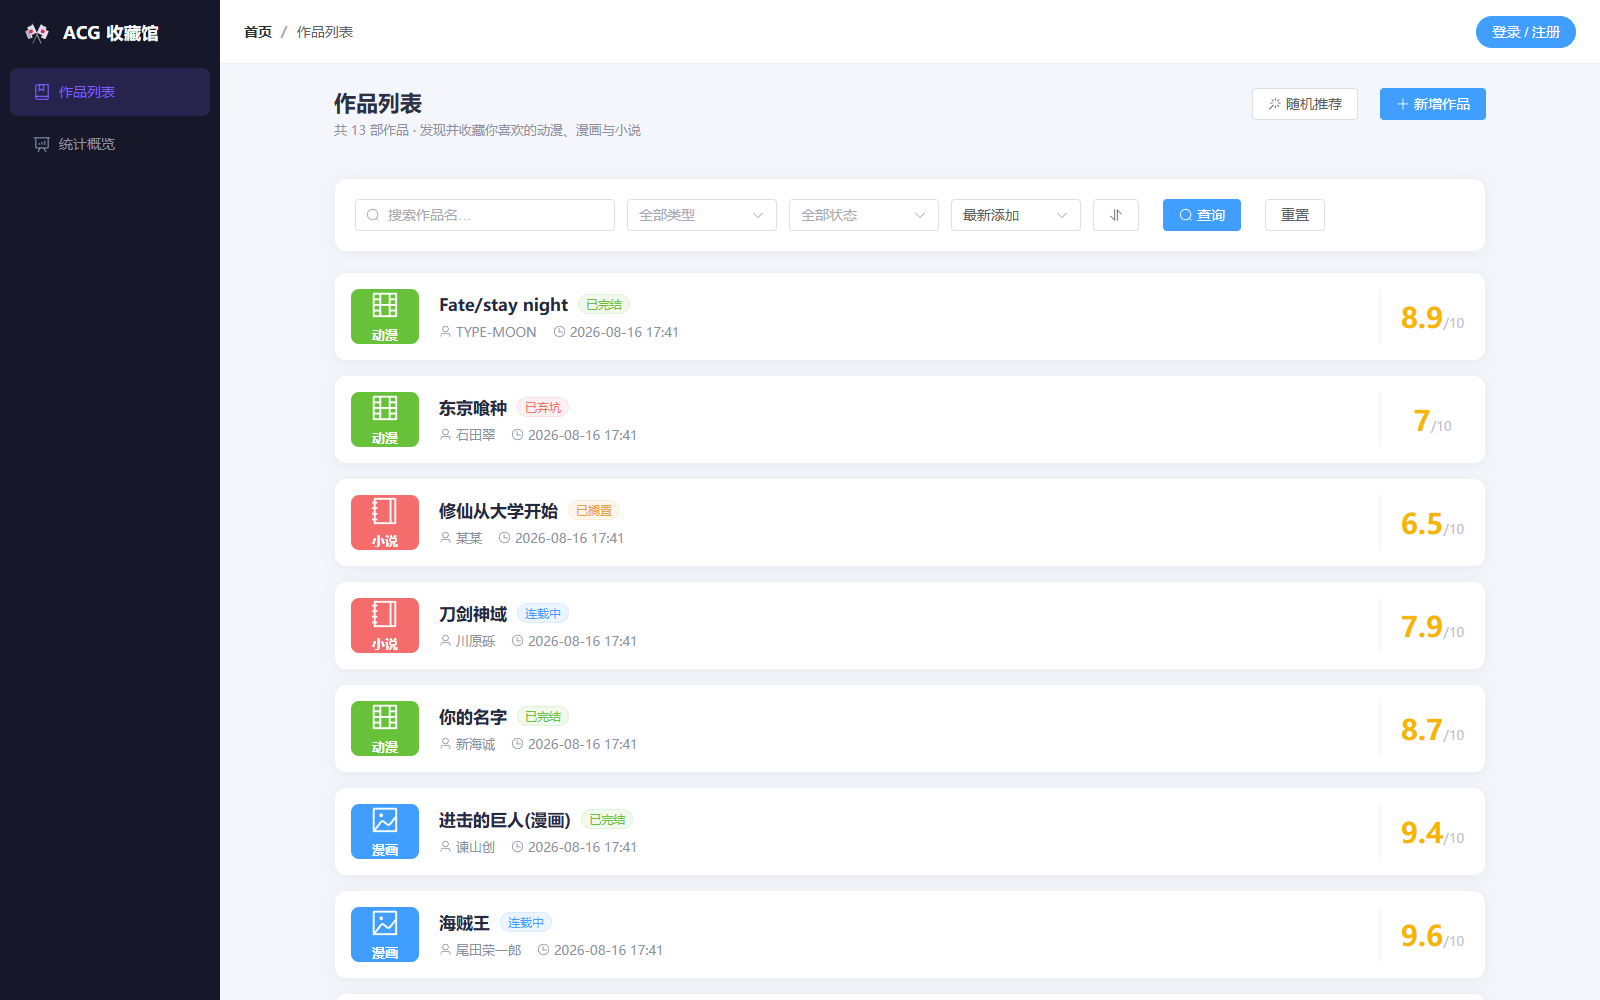
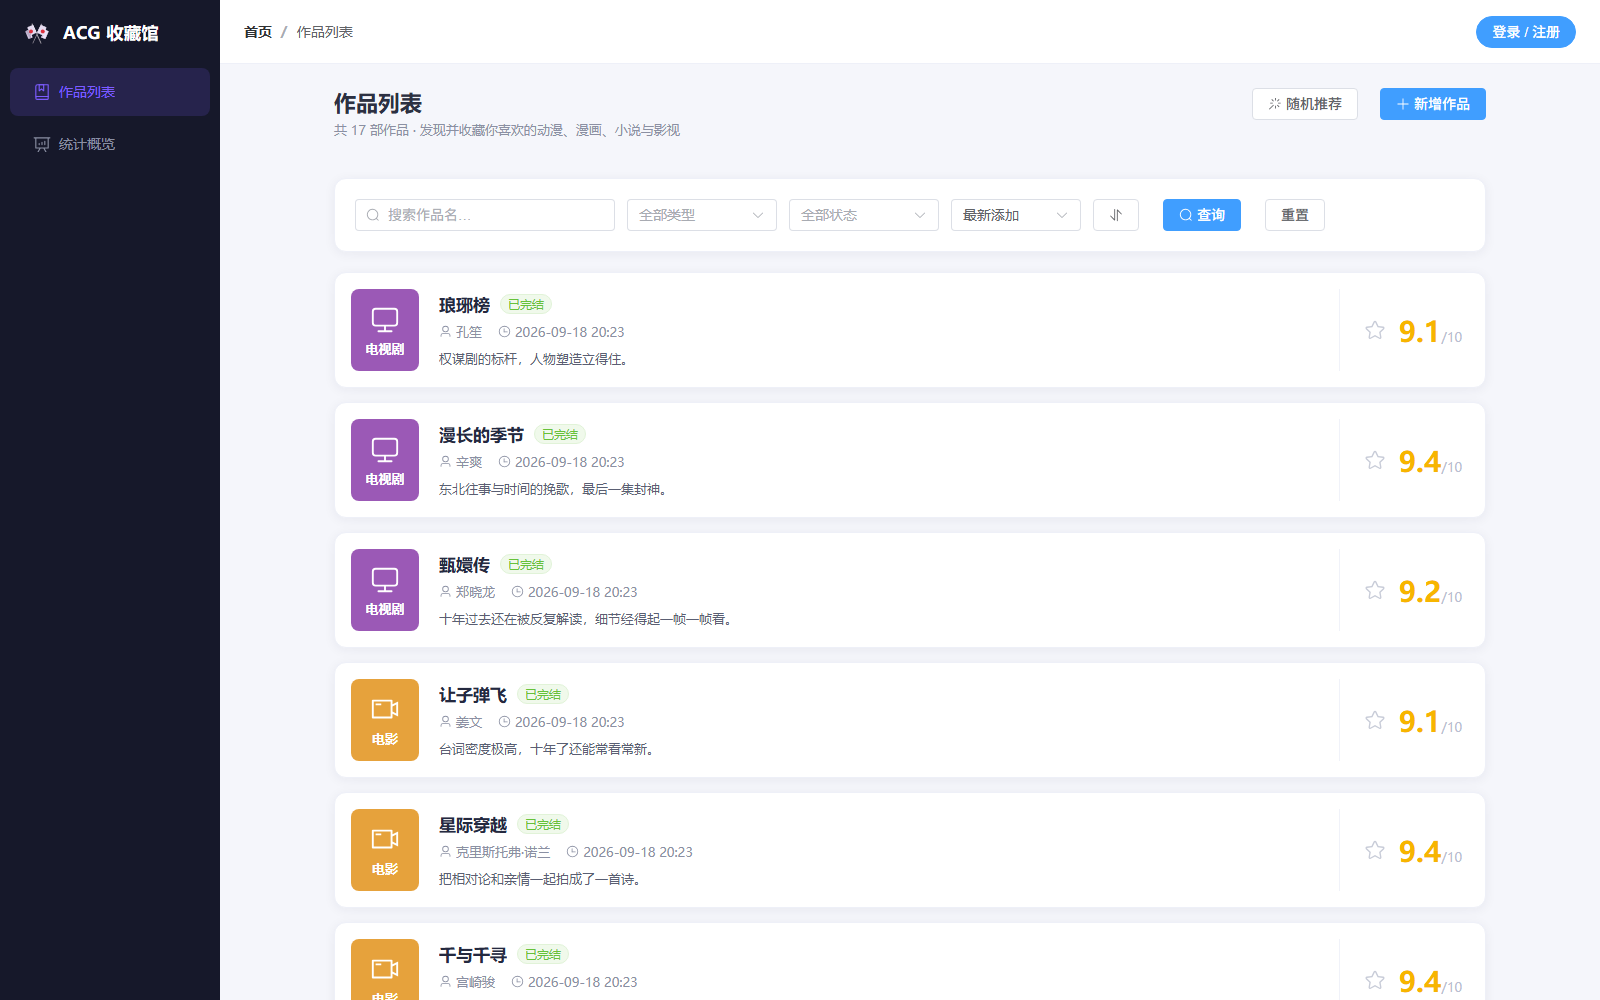
更新 README 截图，补充我的收藏视图

diff --git a/README.md b/README.md
@@ -24,6 +24,10 @@
 
 ![登录后界面](docs/screenshots/05-logged-in.png)
 
+**我的收藏** —— 列表页按「全部作品 / 我的收藏 / 我上传的」切换视角
+
+![我的收藏](docs/screenshots/06-my-favorites.png)
+
 **登录 / 注册**
 
 ![登录页](docs/screenshots/04-login.png)
